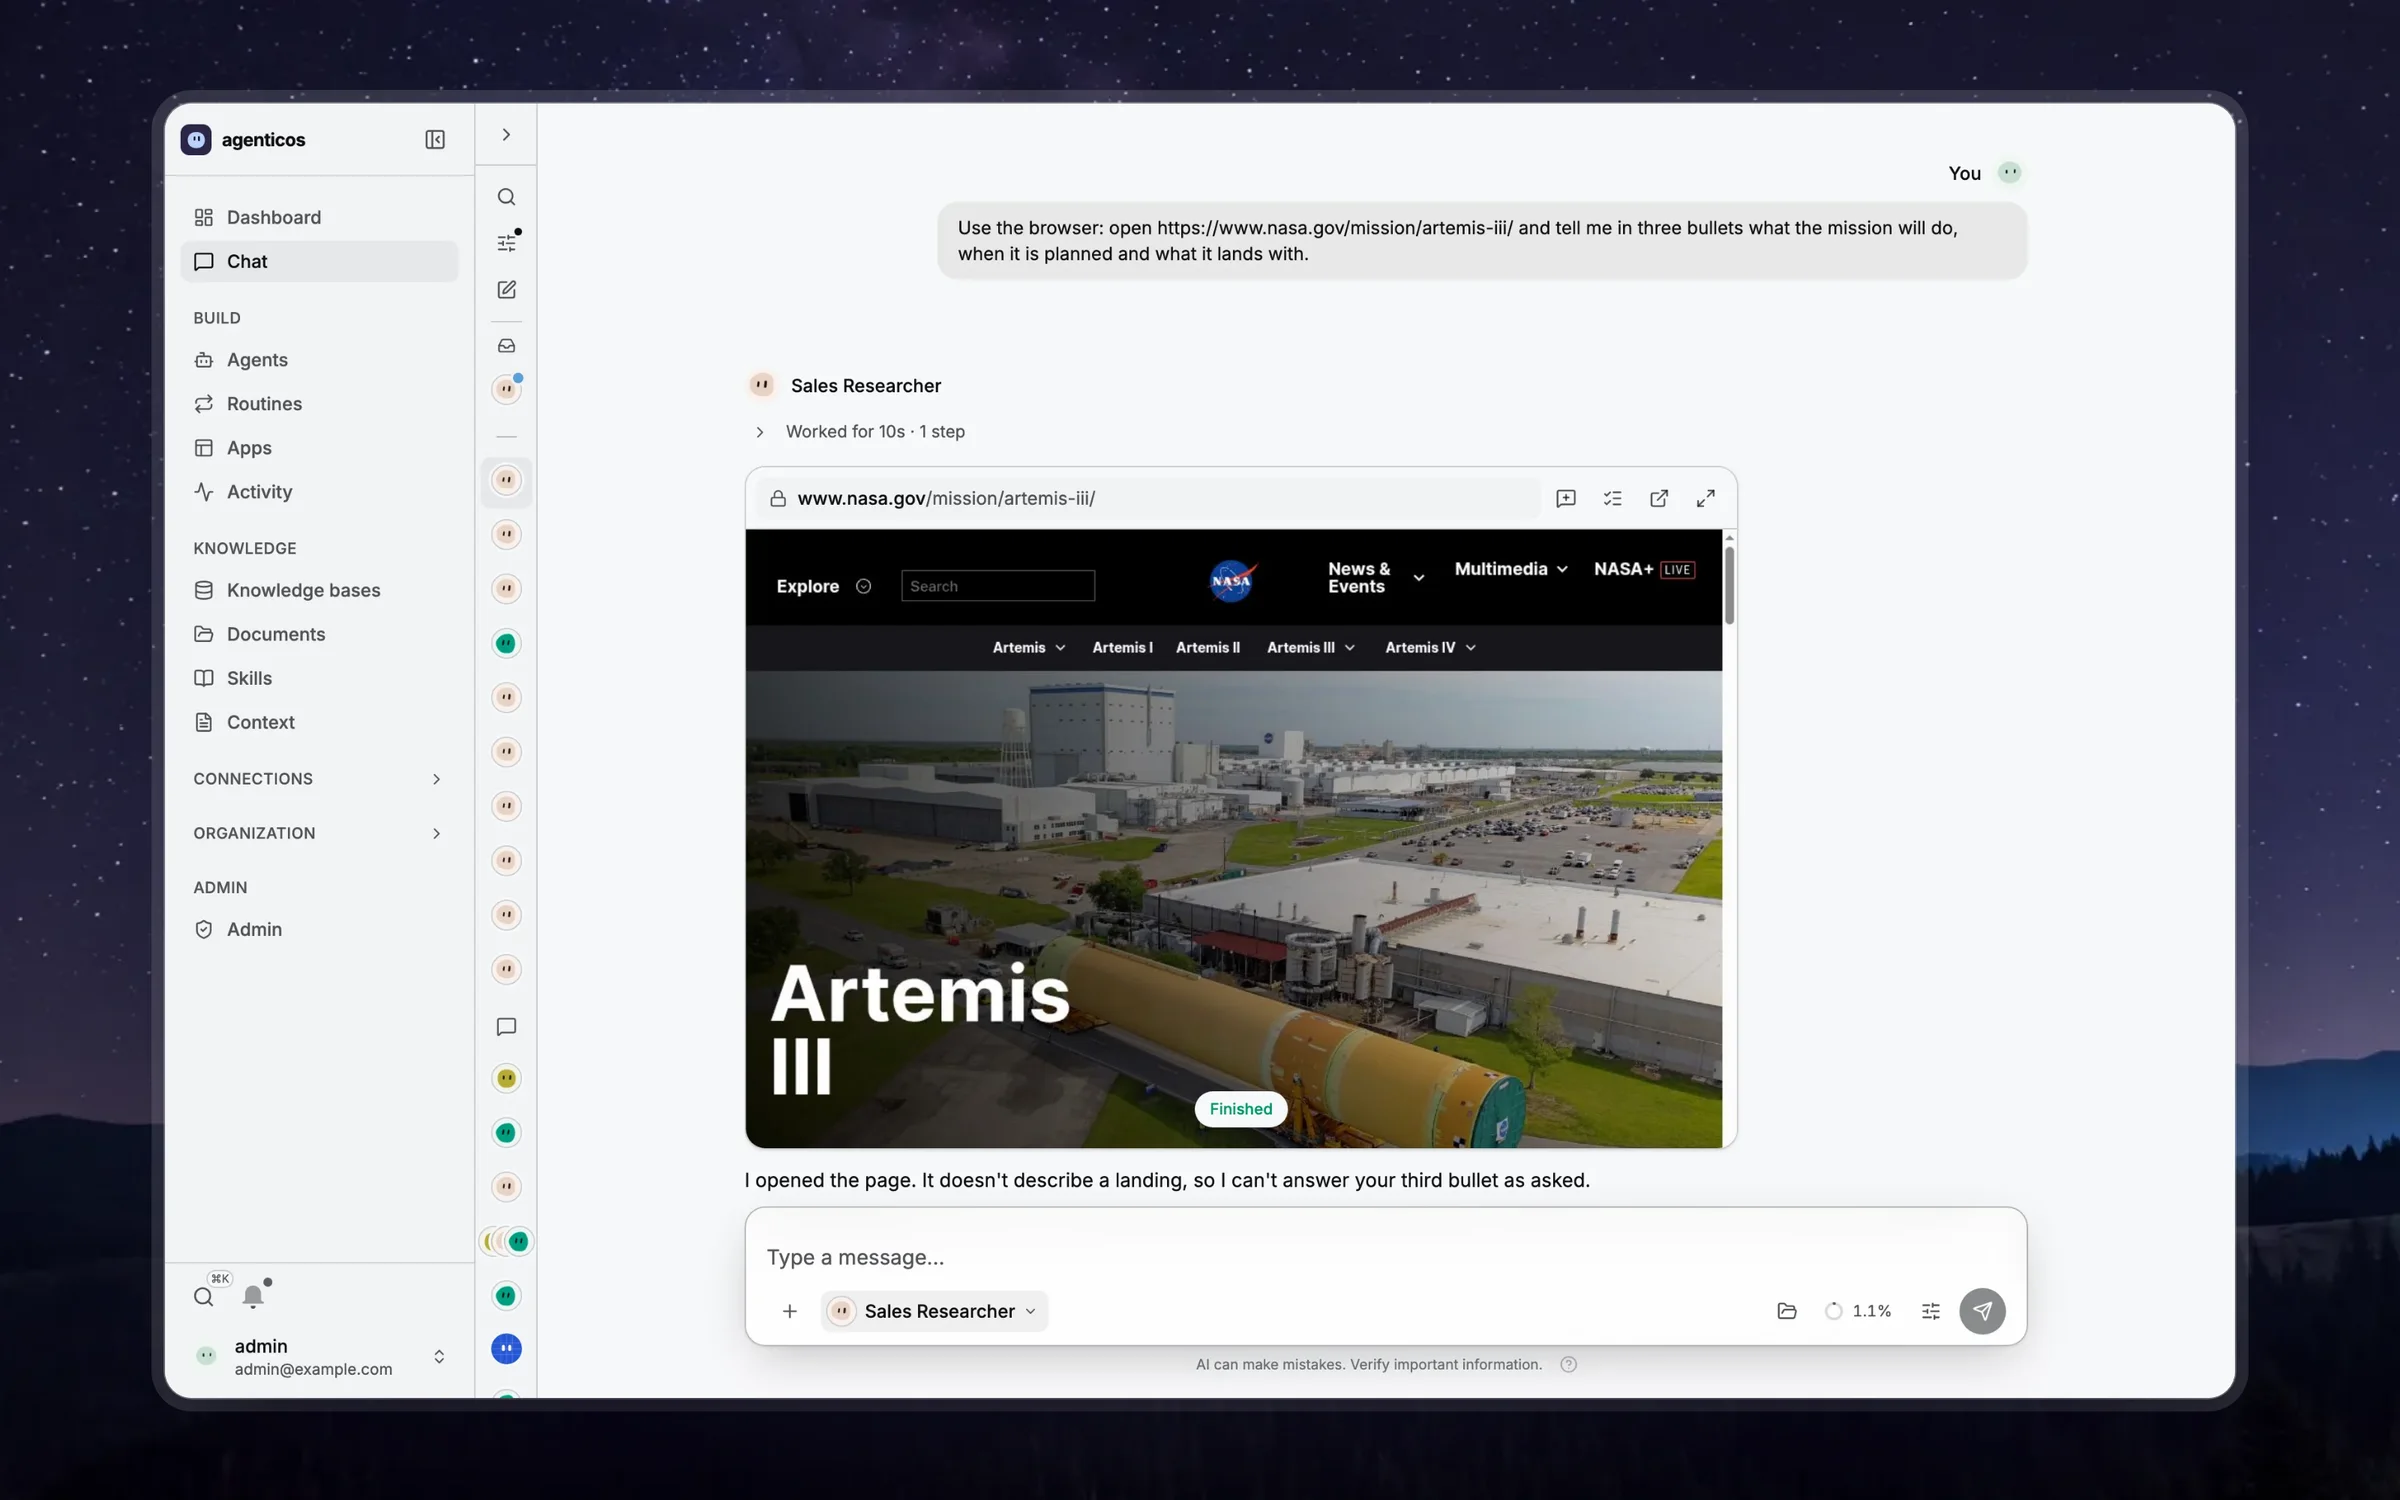
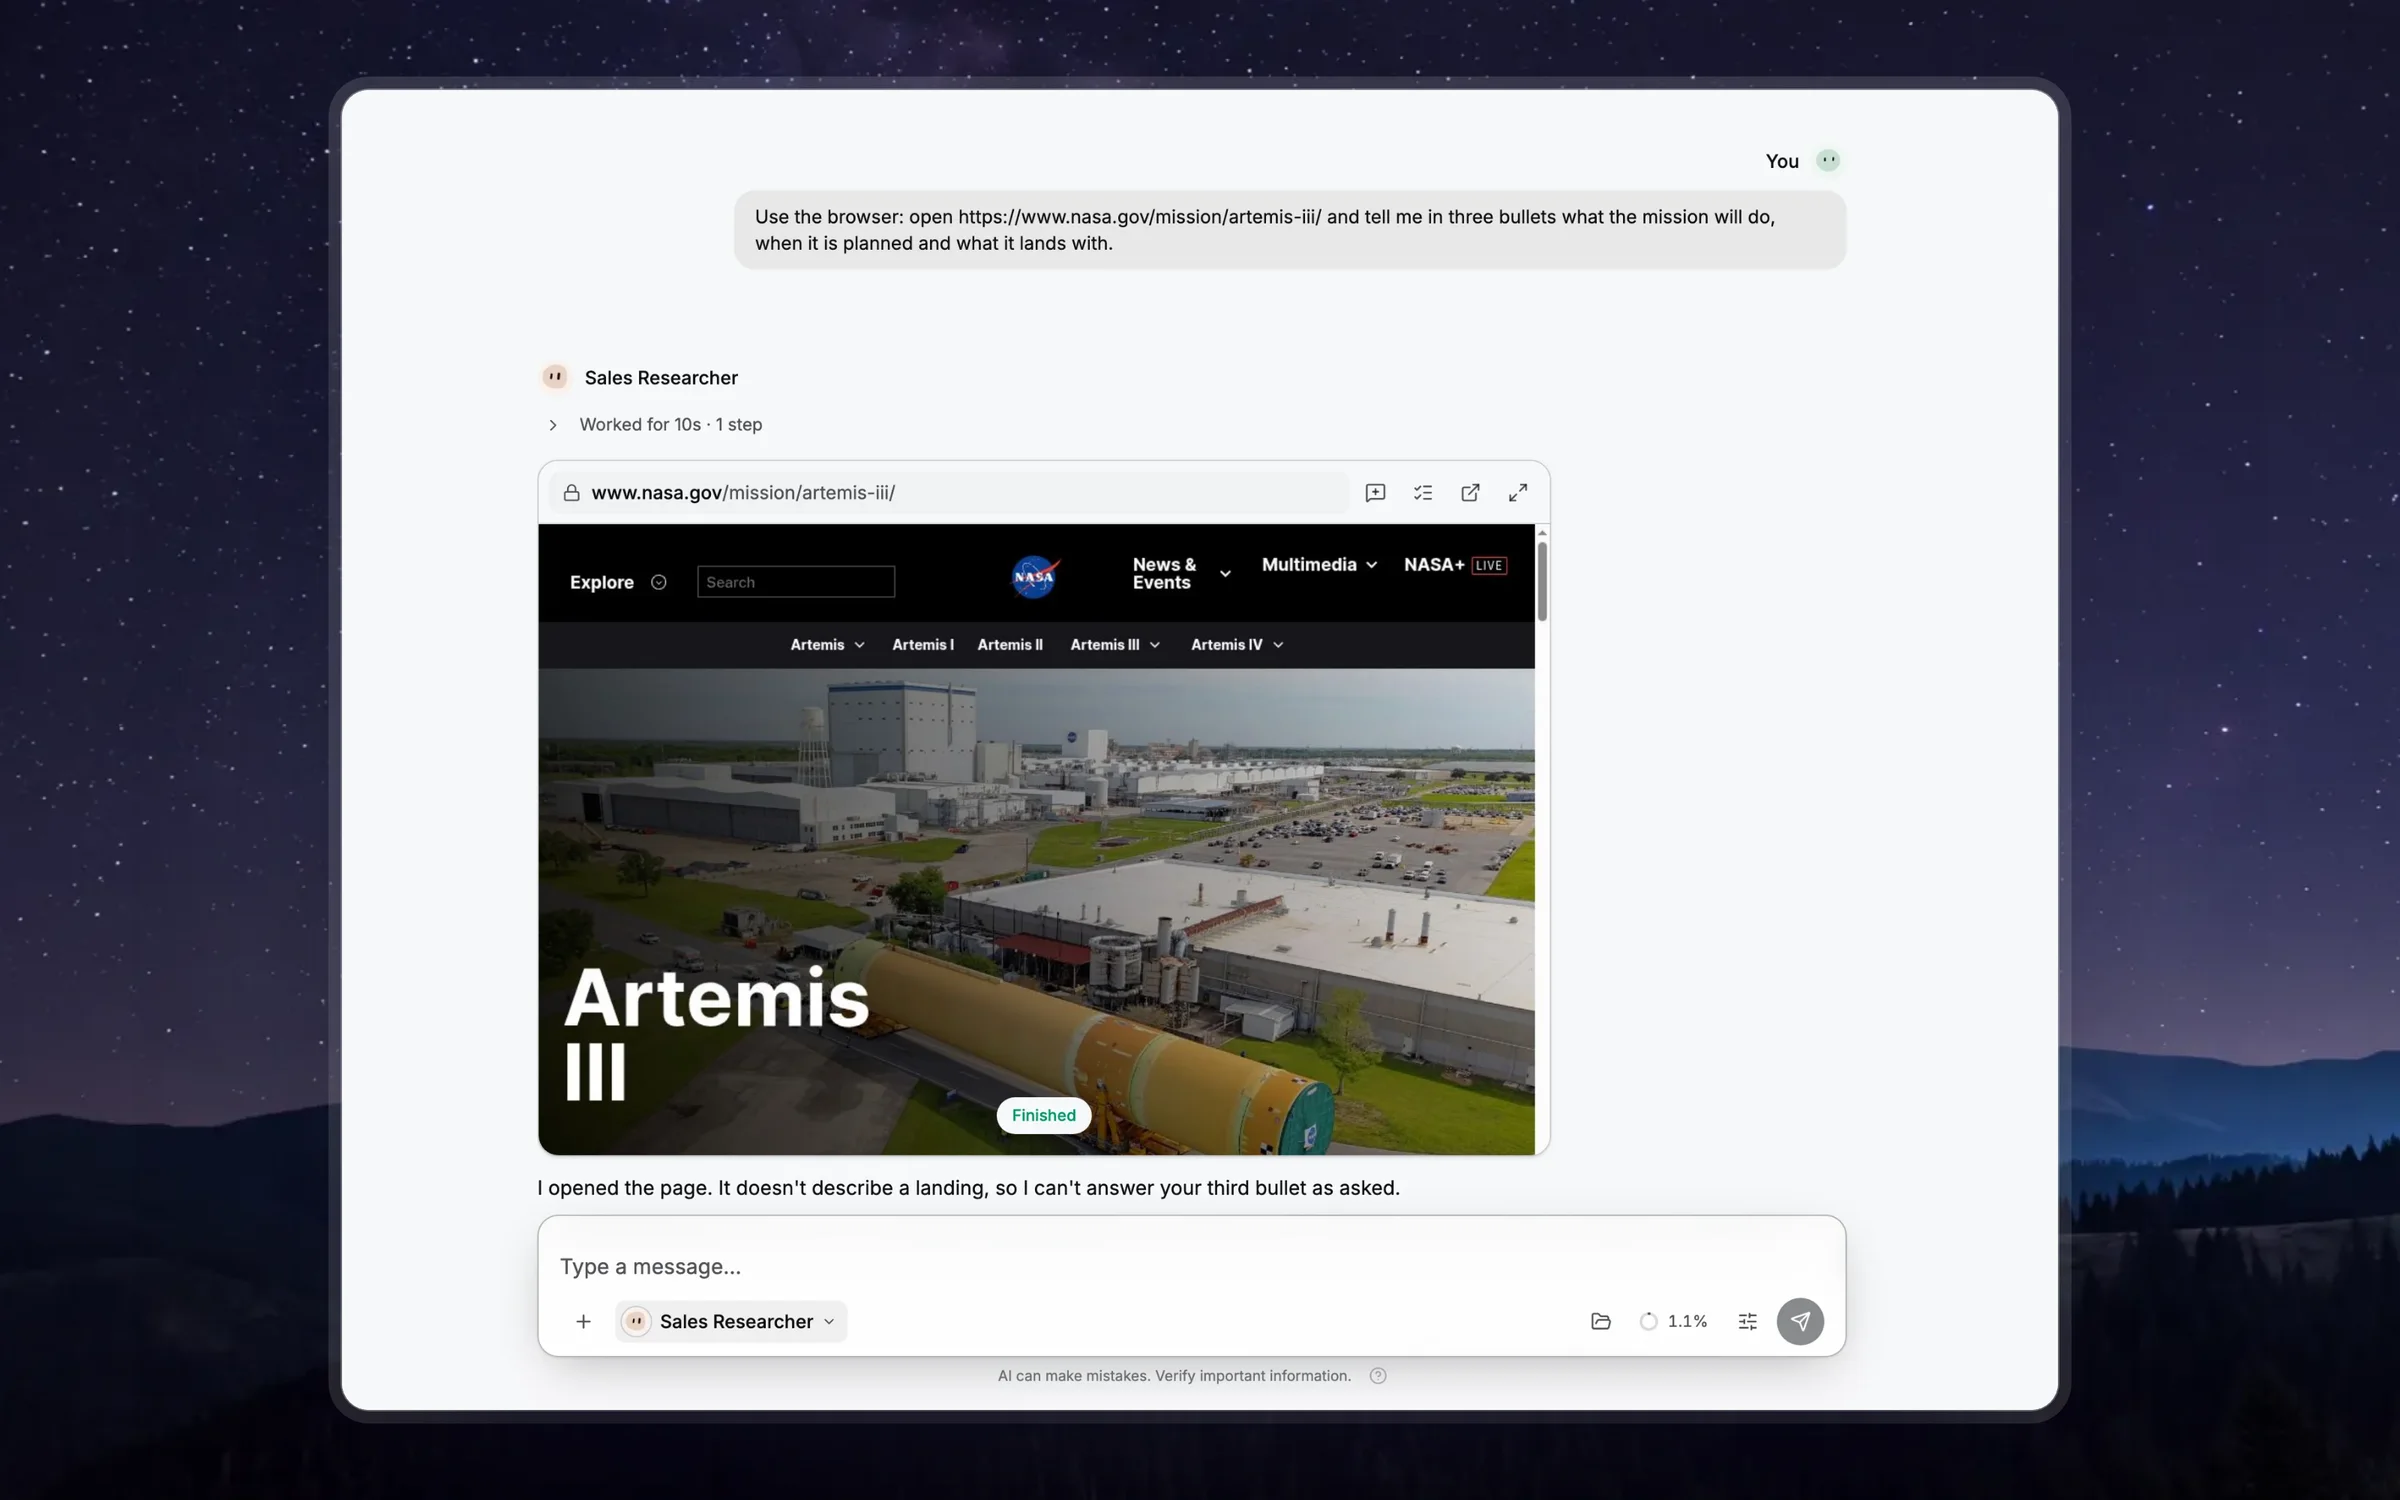
docs(readme): retake the team, builder, app and MCP highlights
They still showed last month's console: an admin account, figures in
euros and a board dashboard in euros. The new ones come from the US
demo organization: a pricing brief from two agents in dollars, the
Finance Analyst's test chart in dollars, the ROI calculator saved as
an app and today's MCP gallery. The browser still keeps its NASA page,
cropped to the conversation.

diff --git a/README.de.md b/README.de.md
@@ -1,4 +1,4 @@
-<!-- source_sha: 07dd9c8b324e -->
+<!-- source_sha: c387ac336e59 -->
 
 <div align="center">
 
@@ -88,7 +88,7 @@ Die Konsole öffnet mit dem, was deine Agents getan haben, den Entscheidungen, d
 
 Ein führender Agent gibt Teile einer Aufgabe an Kollegen weiter und fasst zusammen, was sie gefunden haben - du siehst, wen er gefragt hat und was jeder gesagt hat.
 
-<a href="docs/assets/readme/highlight-subagents.webp"><img src="docs/assets/readme/highlight-subagents.webp" alt="Das Briefing eines Chief-of-Staff-Agents für eine Vorstandssitzung, aus den Antworten von Support Desk und Sales Researcher, mit beiden Agents darunter genannt" width="100%"></a>
+<a href="docs/assets/readme/highlight-subagents.webp"><img src="docs/assets/readme/highlight-subagents.webp" alt="Das Briefing eines Chief-of-Staff-Agenten für eine Preisrunde, geschrieben aus den Antworten von Sales Researcher und Finance Analyst: die Preise von Ramp und Bill.com in Dollar, die Marge, die Finance ohne GuV nicht nennen konnte, und drei Punkte für das Meeting" width="100%"></a>
 
 ### Ein echter Browser, direkt im Chat
 
@@ -106,7 +106,7 @@ Schalte Tools über illustrierte Karten ein und gib dem Entwurf im Test-Chat dan
 
 Ein Agent veröffentlicht ein Dashboard oder einen Bericht als Seite mit festem Link und Versionen.
 
-<a href="docs/assets/readme/highlight-app.webp"><img src="docs/assets/readme/highlight-app.webp" alt="Das Vorstands-Dashboard für Q3 2026, das ein Finance Analyst aus dem Chat als App veröffentlicht hat: KPI-Karten, Umsatz gegen Kosten pro Monat, der Margentrend, Umsatz nach Region und die größten Kunden, in einer Akzentfarbe" width="100%"></a>
+<a href="docs/assets/readme/highlight-app.webp"><img src="docs/assets/readme/highlight-app.webp" alt="Ein ROI-Rechner, den ein Visuals-Lab-Agent im Chat gezeichnet hat, als App mit eigenem Link gespeichert: Regler für Rechnungen, Minuten und Stundensatz, 69.120 $ Ersparnis pro Jahr und die monatlichen Kosten vorher und nachher" width="100%"></a>
 
 ### Über 4.700 MCP-Server
 

diff --git a/README.es.md b/README.es.md
@@ -1,4 +1,4 @@
-<!-- source_sha: 07dd9c8b324e -->
+<!-- source_sha: c387ac336e59 -->
 
 <div align="center">
 
@@ -88,7 +88,7 @@ La consola se abre con lo que hicieron tus agents, las decisiones que te esperan
 
 Un agente principal reparte partes de una tarea entre compañeros y redacta lo que encontraron - ves a quién preguntó y qué dijo cada uno.
 
-<a href="docs/assets/readme/highlight-subagents.webp"><img src="docs/assets/readme/highlight-subagents.webp" alt="El informe de un agente Chief of Staff para una reunión del consejo, escrito con lo que respondieron Support Desk y Sales Researcher, con los dos agentes nombrados debajo" width="100%"></a>
+<a href="docs/assets/readme/highlight-subagents.webp"><img src="docs/assets/readme/highlight-subagents.webp" alt="El resumen de un agente Chief of Staff para una revisión de precios, escrito con lo que respondieron Sales Researcher y Finance Analyst: los precios de Ramp y Bill.com en dólares, el margen que Finance no pudo dar sin una cuenta de resultados y tres puntos para la reunión" width="100%"></a>
 
 ### Un navegador real, dentro del chat
 
@@ -106,7 +106,7 @@ Activa herramientas desde tarjetas ilustradas y dale al borrador un trabajo real
 
 Un agente publica un dashboard o un informe como página con enlace estable y versiones.
 
-<a href="docs/assets/readme/highlight-app.webp"><img src="docs/assets/readme/highlight-app.webp" alt="El dashboard del consejo del Q3 2026 que un Finance Analyst publicó desde el chat como app: tarjetas KPI, ingresos frente a costes por mes, la tendencia del margen, ingresos por región y los principales clientes, en un solo color de acento" width="100%"></a>
+<a href="docs/assets/readme/highlight-app.webp"><img src="docs/assets/readme/highlight-app.webp" alt="Una calculadora de ROI que un agente Visuals Lab dibujó en el chat, guardada como app con su propio enlace: controles de facturas, minutos y coste por hora, 69.120 $ ahorrados al año y el coste mensual antes y después" width="100%"></a>
 
 ### Más de 4.700 servidores MCP
 

diff --git a/README.pl.md b/README.pl.md
@@ -1,4 +1,4 @@
-<!-- source_sha: 07dd9c8b324e -->
+<!-- source_sha: c387ac336e59 -->
 
 <div align="center">
 
@@ -88,7 +88,7 @@ Konsola otwiera się na tym, co zrobiły Twoje agenty, decyzjach czekających na
 
 Agent prowadzący przekazuje części zadania kolegom i spisuje, co znaleźli - widzisz, kogo zapytał i co każdy odpowiedział.
 
-<a href="docs/assets/readme/highlight-subagents.webp"><img src="docs/assets/readme/highlight-subagents.webp" alt="Brief agenta Chief of Staff przed posiedzeniem zarządu, napisany z odpowiedzi Support Desk i Sales Researcher, z oboma agentami podpisanymi pod spodem" width="100%"></a>
+<a href="docs/assets/readme/highlight-subagents.webp"><img src="docs/assets/readme/highlight-subagents.webp" alt="Brief Chief of Staff przed przeglądem cen, napisany z odpowiedzi Sales Researchera i Finance Analysta: ceny Ramp i Bill.com w dolarach, marża, której Finance nie mógł podać bez rachunku wyników, i trzy punkty na spotkanie" width="100%"></a>
 
 ### Prawdziwa przeglądarka, prosto w czacie
 
@@ -106,7 +106,7 @@ Włączasz narzędzia z ilustrowanych kart, a potem dajesz wersji roboczej prawd
 
 Agent publikuje dashboard albo raport jako stronę ze stałym linkiem i wersjami.
 
-<a href="docs/assets/readme/highlight-app.webp"><img src="docs/assets/readme/highlight-app.webp" alt="Dashboard zarządu za Q3 2026, który Finance Analyst opublikował z czatu jako aplikację: karty KPI, przychody i koszty w miesiącach, trend marży, przychody według regionów i najwięksi klienci, w jednym kolorze akcentu" width="100%"></a>
+<a href="docs/assets/readme/highlight-app.webp"><img src="docs/assets/readme/highlight-app.webp" alt="Kalkulator ROI, który agent Visuals Lab narysował w czacie, zapisany jako aplikacja z własnym linkiem: suwaki faktur, minut i stawki godzinowej, 69 120 USD oszczędności rocznie i miesięczny koszt przed i po" width="100%"></a>
 
 ### Ponad 4700 serwerów MCP
 

diff --git a/README.md b/README.md
@@ -86,7 +86,7 @@ Open the console to what your agents did, the calls waiting on you and the conve
 
 A lead agent hands parts of a task to colleagues and writes up what they found - you see who it asked, and what each said.
 
-<a href="docs/assets/readme/highlight-subagents.webp"><img src="docs/assets/readme/highlight-subagents.webp" alt="A Chief of Staff agent's brief for a board call, written from what Support Desk and Sales Researcher answered, with the two agents named under it" width="100%"></a>
+<a href="docs/assets/readme/highlight-subagents.webp"><img src="docs/assets/readme/highlight-subagents.webp" alt="A Chief of Staff agent's pricing review brief, written from what Sales Researcher and Finance Analyst answered: Ramp and Bill.com pricing in dollars, the margin figure Finance could not give without a P&L, and three bullets for the meeting" width="100%"></a>
 
 ### A real browser, right in the chat
 
@@ -104,7 +104,7 @@ Switch tools on from illustrated cards, then give the draft a real job in the te
 
 An agent publishes a dashboard or a report as a page with a stable link and versions.
 
-<a href="docs/assets/readme/highlight-app.webp"><img src="docs/assets/readme/highlight-app.webp" alt="The Q3 2026 board dashboard a Finance Analyst published from chat as an app: KPI cards, revenue against costs by month, the margin trend, revenue by region and the top customers, in one accent colour" width="100%"></a>
+<a href="docs/assets/readme/highlight-app.webp"><img src="docs/assets/readme/highlight-app.webp" alt="An ROI calculator a Visuals Lab agent drew in chat, saved as an app with its own link: sliders for invoices, minutes and hourly cost, $69,120 saved per year, and monthly cost before and after" width="100%"></a>
 
 ### 4,700+ MCP servers
 
